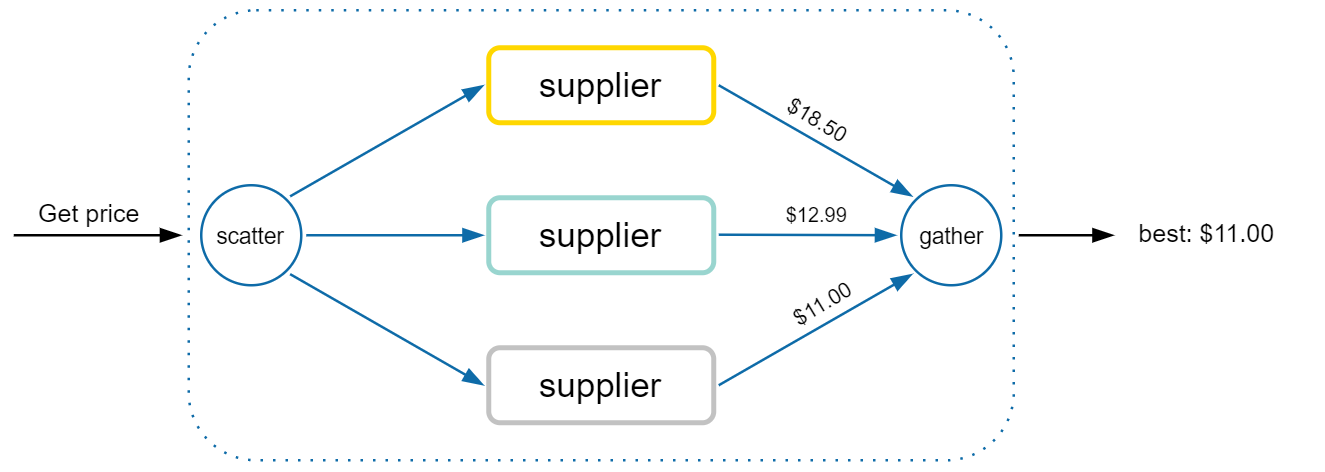
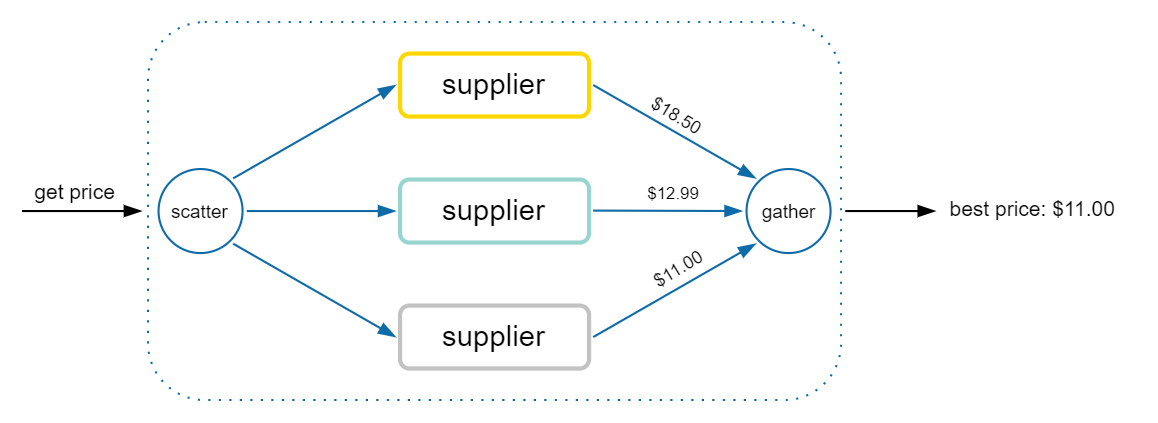
Updates documentation.

Changed region(s): [[0.0, 0.0922, 0.9637, 0.7376], [0.3109, 0.7069, 0.5907, 0.922]]

diff --git a/samples/NScatterGather.Samples.CompetingTasks/Program.cs b/samples/NScatterGather.Samples.CompetingTasks/Program.cs
@@ -60,7 +60,7 @@ static bool IsProductOutOfStock(Evaluation evaluation)
 static void PrettyPrint(IReadOnlyList<Evaluation> evaluations)
 {
     var table = new Table()
-        .SimpleBorder()
+        .HorizontalBorder()
         .BorderStyle("steelblue1")
         .AddColumn(new TableColumn("Product").LeftAligned())
         .AddColumn(new TableColumn("Price").RightAligned())

diff --git a/README.md b/README.md
@@ -43,7 +43,7 @@ This pattern helps to limit the coupling between the consumer and the recipients
 
 The recipients compete in order to provide the best, or the fastest, response to the request. The consumer will then pick the best value from the aggregated response.
 
-_e.g._ Get an item's price from a collection of suppliers:
+[sample:](samples/NScatterGather.Samples.CompetingTasks/) get an item's best price from a collection of suppliers:
 
 ![competing-tasks-diagram](assets/images/competing-tasks-diagram.png)
 
@@ -51,7 +51,7 @@ _e.g._ Get an item's price from a collection of suppliers:
 
 Different operations are computed concurrently, and their results combined or used together. The result types could be different.
 
-_e.g._ Get a user's data from different services, and then compose a view model:
+[sample:](samples/NScatterGather.Samples.TaskParallelization/) get a user's data from different services, and then compose into a model:
 
 ![tasks-parallelization-diagram](assets/images/tasks-parallelization-diagram.png)
 
@@ -73,15 +73,16 @@ var aggregator = new Aggregator(collection);
 AggregatedResponse<object> objects = await aggregator.Send(42);
 
 // The following overload can be used when
-// the return type is either known or binding:
+// the return type is either known or binding.
+// Only the recipients that accept an int and
+// return a string will be invoked:
 AggregatedResponse<string> strings = await aggregator.Send<int, string>(42);
-
-// In the second case, only the recipients that accept
-// an int and return a string will be invoked.
 ```
 
-Inspect the `AggregatedResponse` containing the results of the scatter-gather operation, grouped by completed, faulted and incomplete:
+Inspect the `AggregatedResponse` containing the results of the scatter-gather operation, grouped by _completed_, _faulted_ and _incomplete_:
 ```csharp
+var response = await aggregator.Send<int, string>(42, cancellationToken);
+
 var completed = response.Completed[0];
 // (Type recipientType, string result) = completed;
 
@@ -104,10 +105,10 @@ class Foo
 
 class Bar
 {
-    public Task<string> ThisIsInvokedToo(int n) => Task.FromResult(n.ToString());
+    public int ThisIsInvokedToo(int n) => n * 2;
 }
 
-// Invoke each recipient that accepts an int.
+// Invoke every recipient that accepts an int.
 _ = await aggregator.Send(42);
 ```
 
@@ -117,7 +118,7 @@ _ = await aggregator.Send(42);
 
 The `Aggregator` exposes async-only methods for sending requests.
 
-Even if the consumer requested only results of type `TResponse`, a recipient that returns `Task<TResponse>` (or `ValueTask<TResponse>`) will still be invoked and its result awaited:
+Even if the consumer requested only results of type `TResponse`, a recipient that returns `Task<TResponse>`, or `ValueTask<TResponse>`, or any task-like type, will still be invoked and its result awaited:
 
 ```csharp
 class Foo { public int Echo(int n) => n; }
@@ -174,7 +175,7 @@ class Foo { public string Stringify(int n) => n.ToString(); }
 
 class Bar
 {
-    public Task<long> Longify(int n)
+    public async Task<long> Longify(int n)
     {
         await Task.Yield();
         return n * 1L;
